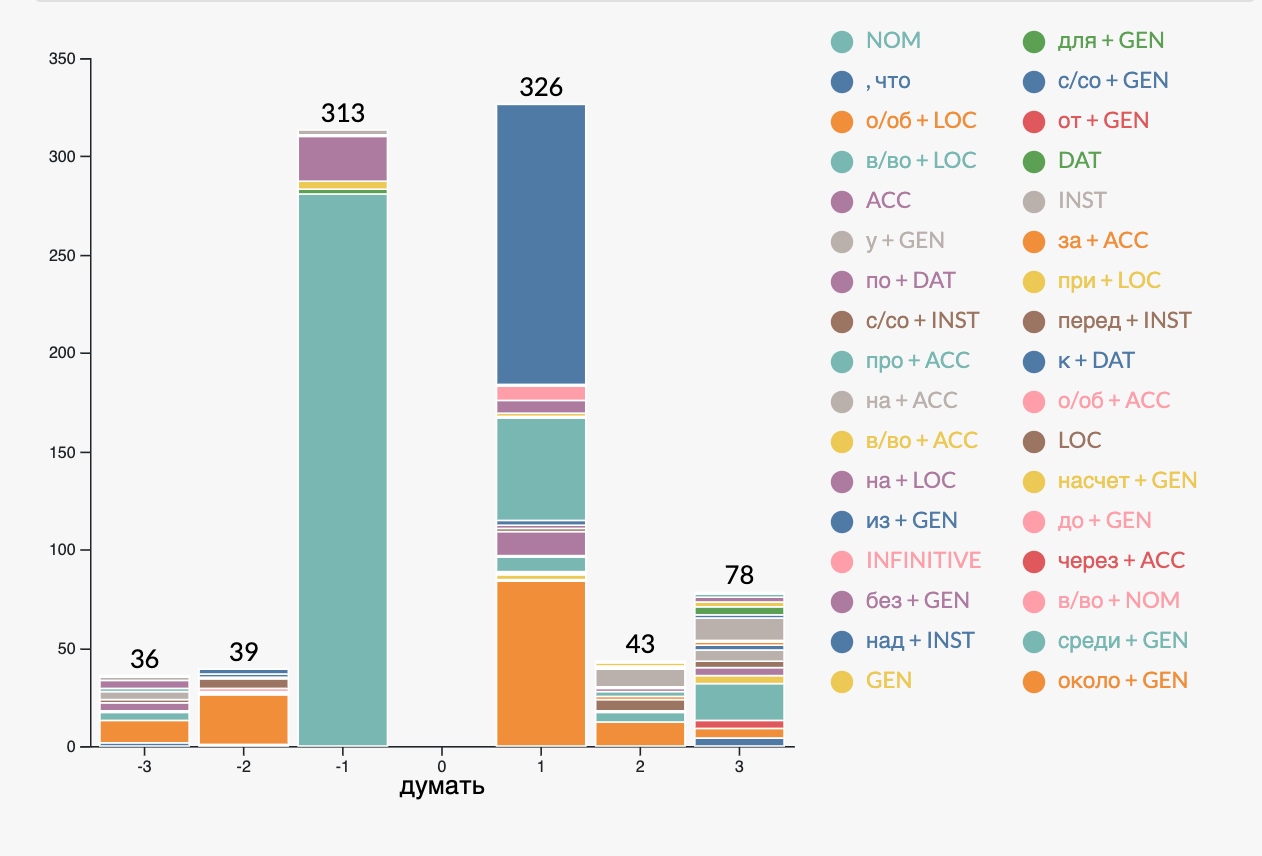
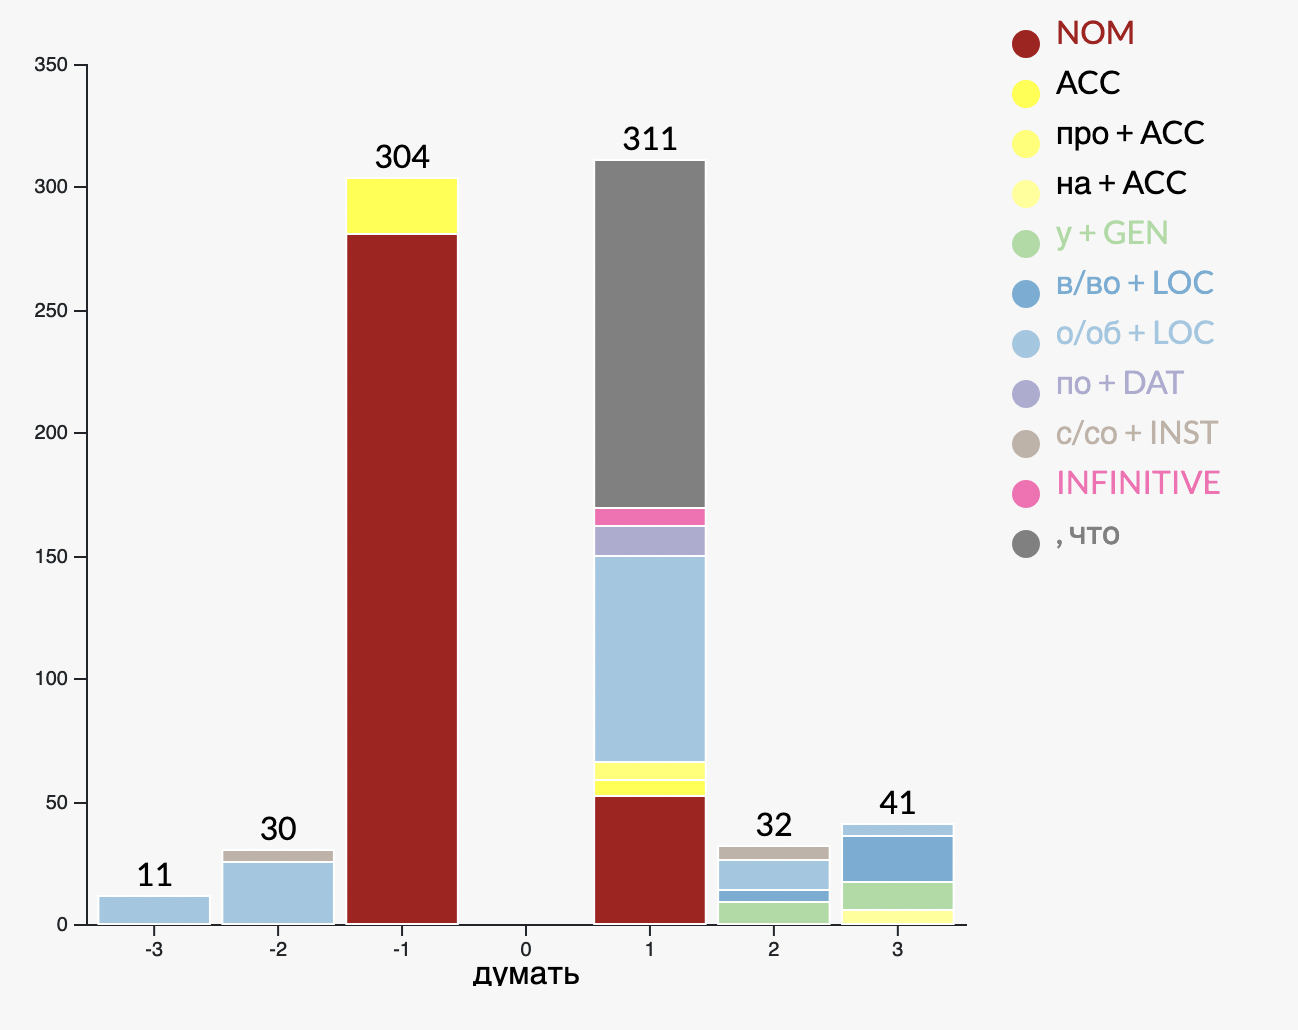
june updates

Changed region(s): [[0.0309, 0.0, 0.958, 0.972]]

diff --git a/homeleft.html b/homeleft.html
@@ -5,12 +5,12 @@
 <br>
 <p><b>About me:</b></p>
 <p>
-    I'm currently in my third year at Harvard College studying 
+    I'm a rising senior at Harvard studying 
     <a href="https://talk.collegeconfidential.com/college-life/544948-is-it-weird-to-double-major-in-two-completely-different-fields.html">Computer Science and Slavic languages and literature</a>. 
-    When I'm not agonizing over my <a href="https://en.wikipedia.org/wiki/Pythonidae">Python</a> code
-    or parsing extremely large textual datasets, you can find me reading
+    When I'm not agonizing over Jupyter Notebooks
+    or parsing large textual datasets, you can find me reading
     <a href="https://www.google.com/search?q=russian+lit+memes&rlz=1C5CHFA_enUS867US867&source=lnms&tbm=isch&sa=X&ved=2ahUKEwio04GXoK7sAhUiTt8KHV0oDb4Q_AUoAXoECAQQAw&biw=1024&bih=577">Tolstoy and Dostoevsky</a>
-    or trying to pet cats I meet on the street. 
+    or trying to pet the neighborhood cats. 
     I pursue research at the intersection of language, computation, and media studies, 
     by using tools from 
     <a href="https://www.google.com/search?q=elmo+flame+meme&tbm=isch&ved=2ahUKEwieuPG9n67sAhWTIN8KHf3ZDFMQ2-cCegQIABAA&oq=elmo+flame+meme&gs_lcp=CgNpbWcQAzICCAA6BAgAEEM6CAgAELEDEIMBOgUIABCxAzoHCAAQsQMQQzoKCAAQsQMQgwEQQzoECAAQHjoGCAAQBRAeOgYIABAIEB5Q4aIBWNqvAWCGsgFoAHAAeACAAXiIAcQHkgEEMTQuMZgBAKABAaoBC2d3cy13aXotaW1nwAEB&sclient=img&ei=ad-DX97fEZPB_Ab9s7OYBQ&rlz=1C5CHFA_enUS867US867">natural language processing</a>, 
@@ -21,15 +21,20 @@
     <b>Current positions:</b>
     <ul>
         <li>
-            Research assistant with <a href='https://www.radcliffe.harvard.edu/people/amelia-m-glaser' target="_blank">Prof. Amelia Glaser</a> 
-            at the Harvard Radcliffe Institute for Advanced Study on her project about 
-            identity and politics of Ukraine after 2014
+            Current researcher on disinformation on social media platforms with the 
+            <a href='https://sml.stanford.edu/' target='_blank'>Social Media Lab</a>
+            at Stanford's 
+            <a href='https://www-csli.stanford.edu/' target='_blank'>Center for the Study of Language and Information</a>.
         </li>
         <li>
-            Co-researcher with <a href='https://faculty.slavic.fas.harvard.edu/steven-clancy/home' target='_blank'>Prof. Steven Clancy</a>
-            on his <a href='https://visualizingrussian.fas.harvard.edu/' target='_blank'>Visualizing Russian project</a>
+            Former researcher with <a href='https://www.radcliffe.harvard.edu/people/amelia-m-glaser' target="_blank">Prof. Amelia Glaser</a> 
+            at the Harvard Radcliffe Institute for Advanced Study on her project creating an archive of Ukrainian poetry posted to Facebook after 2014.
         </li>
-        <li>President of the <a href='https://harvardtechnologyreview.com/' target='_blank'>Harvard Technology Review</a></li>
+        <li>
+            Former researcher with <a href='https://faculty.slavic.fas.harvard.edu/steven-clancy/home' target='_blank'>Prof. Steven Clancy</a>
+            on his <a href='https://visualizingrussian.fas.harvard.edu/' target='_blank'>Visualizing Russian project</a>. Feel free to check it out!
+        </li>
+        <li>Former president of the <a href='https://harvardtechnologyreview.com/' target='_blank'>Harvard Technology Review</a></li>
     </ul>
 </p>
 <br>
@@ -38,7 +43,7 @@
     <ul>
         <li>See many of my past and current projects to the right (below on mobile)</li>
         <li>
-            <a href='https://github.com/eelegiap'>My Github</a>
+            <a href='https://github.com/eelegiap' target='_blank'>My Github</a>
         </li>
         <li>
             <a href='Paige Lee Resume - Updated Dec-2021.pdf' target='_blank'>Open my resume in a new tab.</a>

diff --git a/homeright.html b/homeright.html
@@ -1,6 +1,18 @@
 <div class='row'>
     <div class='col-md-6'>
         <div class="card">
+            <img class="card-img-top" src="images/langnetwork.png" alt='Language of translation network'>
+            <div class="card-body">
+                <h5 class="card-title">Ukrainian Poetry on Facebook</h5>
+                <p class="card-text">
+                    Using distant reading methods to analyze an online archive of Ukrainian poetry 
+                    from Facebook. Research is not able to be shared yet!
+                </p>
+                <a target= _blank' class="card-link">More info coming soon!</a>
+            </div>
+        </div>
+        <br>
+        <div class="card">
             <img class="card-img-top" src="images/war-and-peace.png" alt='War and Peace graph'>
             <div class="card-body">
                 <h5 class="card-title">War and Peace and Happiness</h5>
@@ -46,6 +58,17 @@
         <br><br>
     </div>
     <div class='col-md-6'>
+        <div class="card">
+            <img class="card-img-top" src="images/fbtw.jpg" alt='iPhone home screen' style="height: 50%; width: 100%;">
+            <div class="card-body">
+                <h5 class="card-title">Text Analysis of Facebook & Twitter Misinformation</h5>
+                <p class="card-text">
+                    In progress!
+                </p>
+                <a target= _blank' class="card-link">More info coming soon!</a>
+            </div>
+        </div>
+        <br>
         <div class="card">
             <img class="card-img-top" src="images/case-radar.png" alt='Case radar charts'>
             <div class="card-body">

diff --git a/verb-histograms.html b/verb-histograms.html
@@ -67,7 +67,7 @@
                         possible constructions. The horizontal axis refers to the place in the sentence where 
                         the particular construction begins (3 words before the verb, 2 words before the verb, etc.):
                     </p>
-                    <img class='demos' src='images/vh-dumat.png' style='margin-bottom: 15px'>
+                    <img class='demos' src='images/verb-histograms.png' style='margin-bottom: 15px'>
                     <p>
                         <b>Below:</b> Users can hover over the legend to look at the breakdown for a particular construction.
                         Clicking on "NOM" shows that the nominative case shows up in the -1 and +1 positions 
@@ -76,10 +76,10 @@
                     <img class='demos' src='images/vh-nom.png' style='margin-bottom: 15px'>
                     <p>
                         <b>Below:</b> It is also possible to view the examples comprising the statistics shown 
-                        on the graph. For example, here we see all of the sentences from the corpus where ", что" (that) that occur 
+                        on the graph. For example, here we see sentences from the corpus where ", что" (that) that occur 
                         in the +1 position of the verb "to think".
                     </p>
-                    <img class='demos' src='images/vh-shto.png' style='margin-bottom: 15px'>
+                    <img class='demos' src='images/vh-shto-exs.png' style='margin-bottom: 15px'>
                 </div>
             </div>
         </div>

diff --git a/reading.html b/reading.html
@@ -22,7 +22,12 @@
                 <h3>Things I've read during college!</h3>
                 <p>and enjoyed... for the most part.</p>
                 <br>
-                <p><b>Novels and novellas:</b></p>
+                <p><b>Books, Novels and Novellas:</b></p>
+                <p><i>Post-Truth</i>, Lee McIntyre</p>
+                <p><i>The Road to Unfreedom</i>, Timothy Snyder</p>
+                <p><i>Memes in Digital Culture</i>, Limor Shifman</p>
+                <p><i>Oblivion</i>, Sergei Lebedev</p>
+                <p><i>Resurrection</i>, Leo Tolstoy</p>
                 <p><i>Kafka on the Shore</i>, Haruki Murakami</p>
                 <p><i>War and Peace</i>, Leo Tolstoy</p>
                 <p><i>The Funeral Party</i>, Ludmila Ulitskaya</p>
@@ -42,9 +47,10 @@
 
                 <br>
                 <p><b>Short Stories, Poems, and Plays:</b></p>
+                <p><i>The Seagull</i>, Anton Chekhov</p>
+                <p><i>The Garden of Forking Paths</i>, Jorge Borges</p>
                 <p><i>F Letter: New Russian Feminist Poetry</i>, edited by Galina Rymbu, Ainsley Morse, Eugene Ostashevsky</p>
                 <p><i>Without End</i>, Adam Zagajewski</p>
-
                 <br><br>
             </div>
             <div class='col-md-4'>
